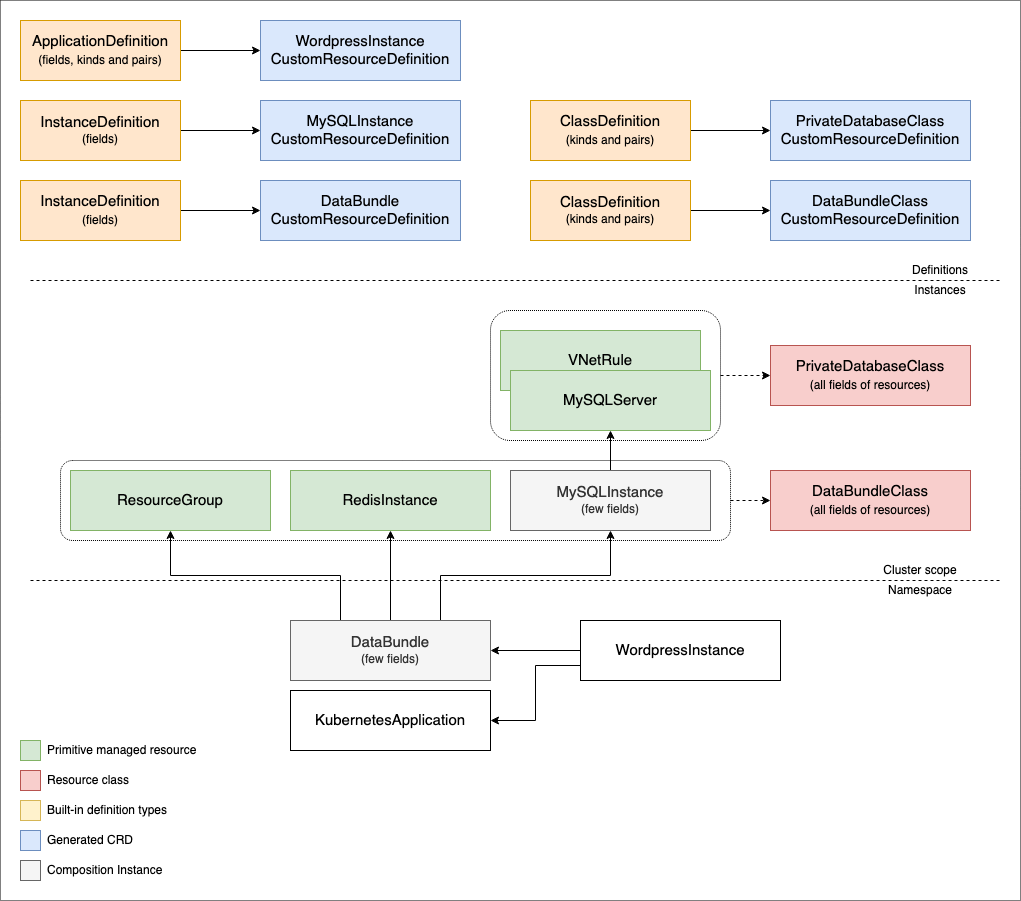
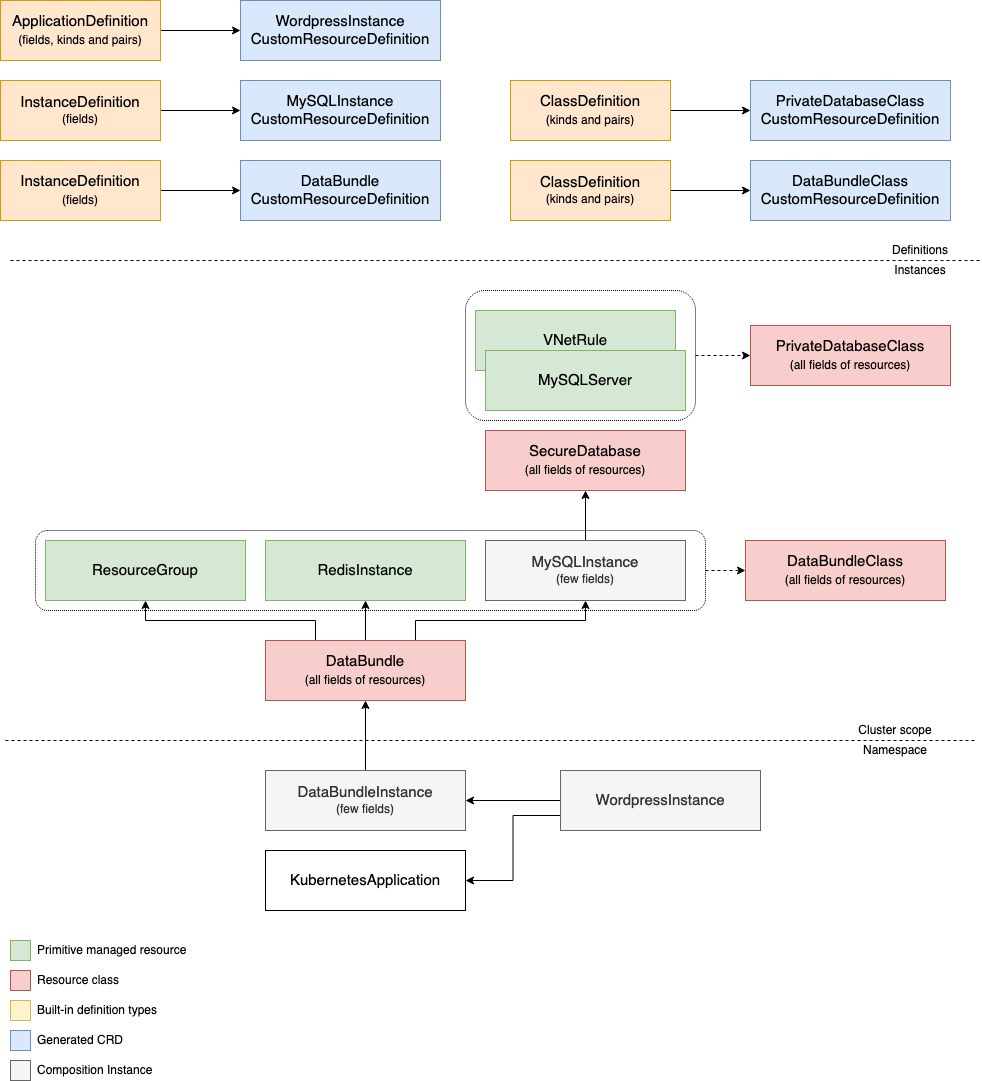
update readme

diff --git a/README.md b/README.md
@@ -1,3 +1,8 @@
-See README-old.md for old proposal. The following is a simplified one that doesn't aim to solve Application composition.
-
 ![Architecture diagram](compositeclasses.png)
+
+
+* Static provisioning doesn't exist in the sense that you create a composite resource without any class.
+  * You can create an `InstanceDefinition` that is cluster-scoped and use it as intermediary resource. For example, `MySQLInstance` in the diagram is a cluster-scoped resource. You can create it and use it in another composition whose instance is namespaced but you always need a class to get all of the parameters for initial creation.
+  * As an alternative, we can have intermediary resource kinds that is generated from `ClassDefinition` together with class, i.e. `PrivateDatabase` and `PrivateDatabaseClass`; both with all fields of the underlying resources. Then we'd not need a class, creating `PrivateDatabase` with necessary fields would be sufficient. Though it's similar to what we have today, composition adds another layer and that results in some complexity. So, it depends how much we want static provisioning to be first class scenario.
+
+* Application composition is different from infrastructure in the sense that you define everything (actual parameters of primitive resources, instance fields and their corresponding fields on primitive resources). You don't have _class_ concept, it's all under one resource `ApplicationDefinition`. If you want to deploy Wordpress to VM and Kubernetes, you have to create two different `ApplicationDefinition`s and use two different CR kinds for each (`VMWordpress` and `K8SWordpress`). Similar reasoning with kind separation of `Deployment` and `StatefulSet` where both kinds get you the same output but you choose one or the other over how they handle the app's pods.
